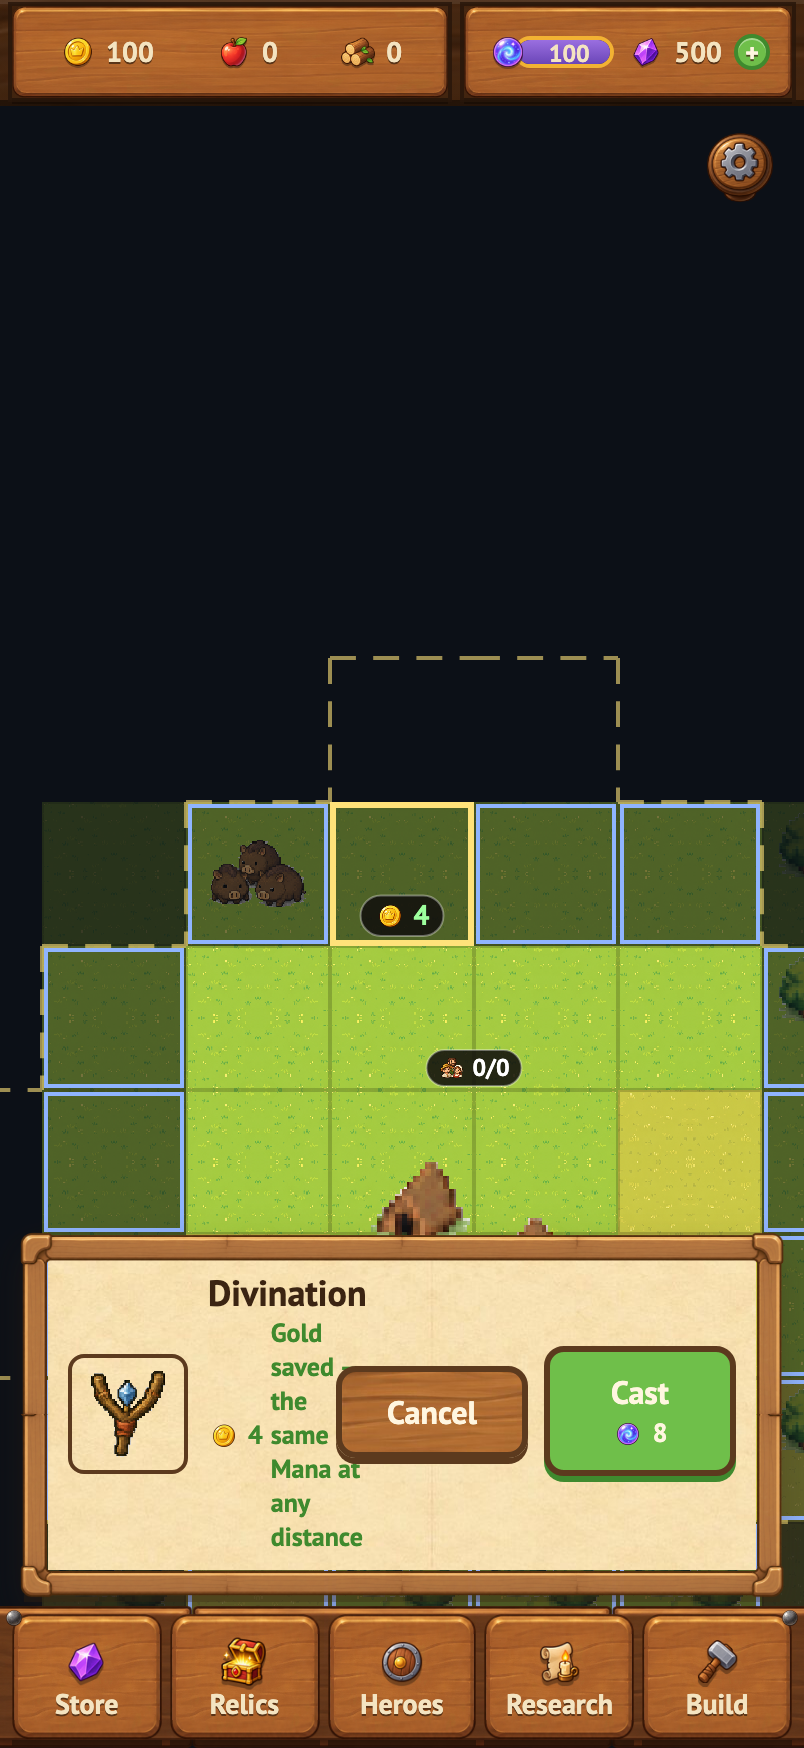
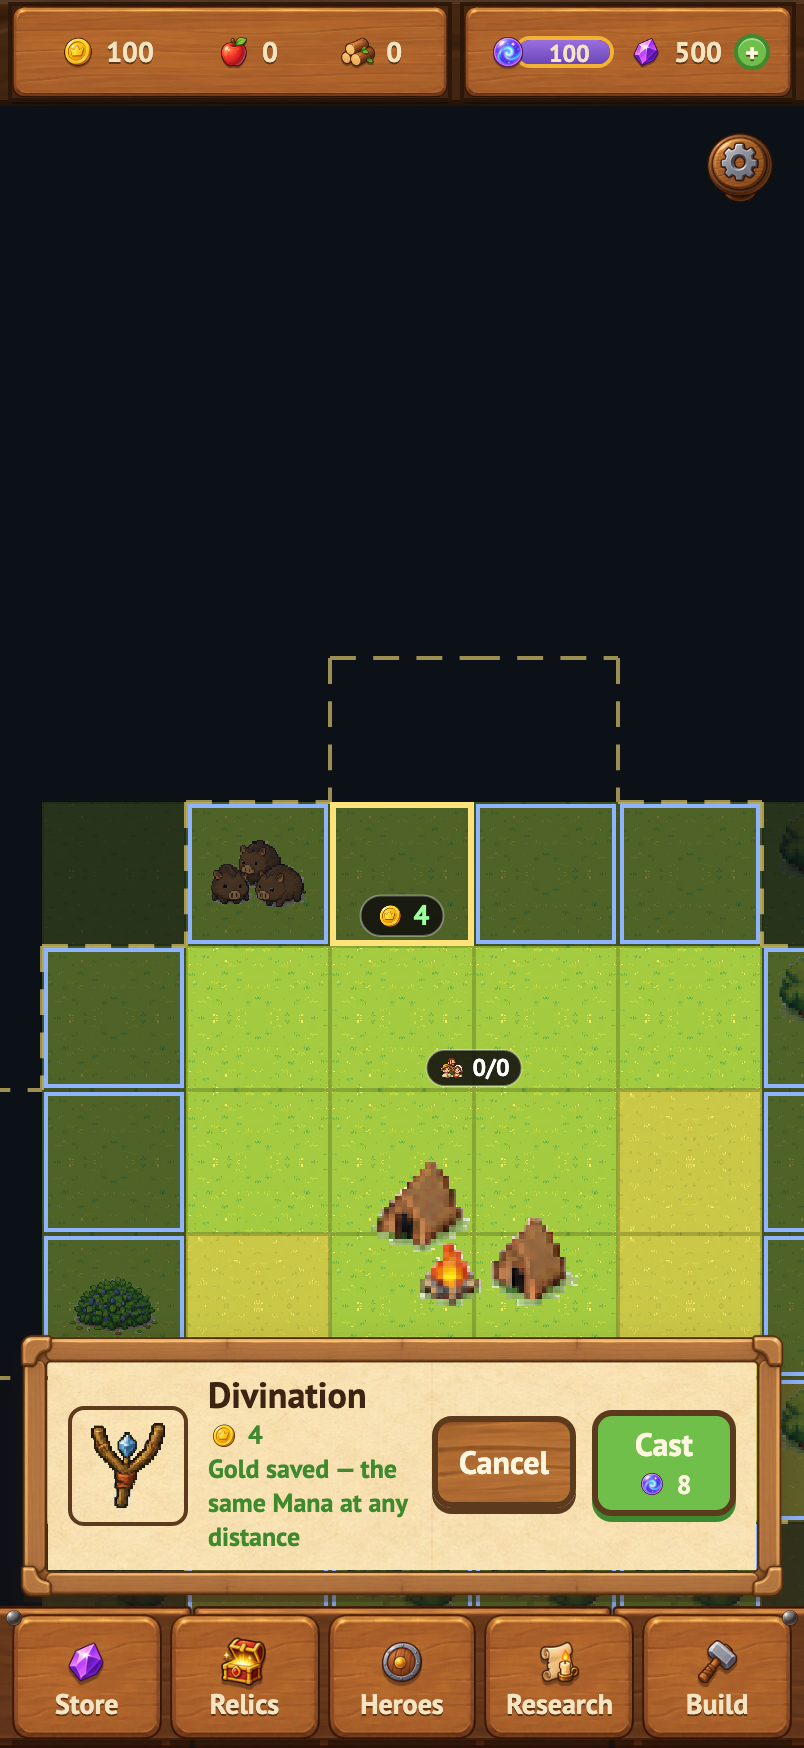
fix(ui): the cast bar's verdict reads as a sentence beside its two slabs
The words were being squeezed into a one-word-per-line column by two
full-width slabs; the slabs now shrink to their labels first and the
verdict wraps as prose. Capture in Docs/art/ui/captures/cast-bar.png.

Changed region(s): [[0.0, 0.6796, 0.995, 0.8959], [0.0622, 0.8341, 0.0933, 0.865]]

diff --git a/src/ui/styles/screens/placement.css b/src/ui/styles/screens/placement.css
@@ -73,3 +73,10 @@
   color: var(--clay);
   font-weight: 700;
 }
+
+/* The words keep their measure beside two slabs: the slabs shrink to their
+   labels first, and the verdict reads as a sentence, not a column. */
+.plc-body { flex: 1 1 130px; }
+.plc-verdict { display: flex; flex-wrap: wrap; align-items: center; gap: 0 4px; }
+.plc-actions .k-btn { min-width: 72px; padding: 6px 10px; }
+.plc-actions .k-btn.has-cost { padding: 4px 10px; }
